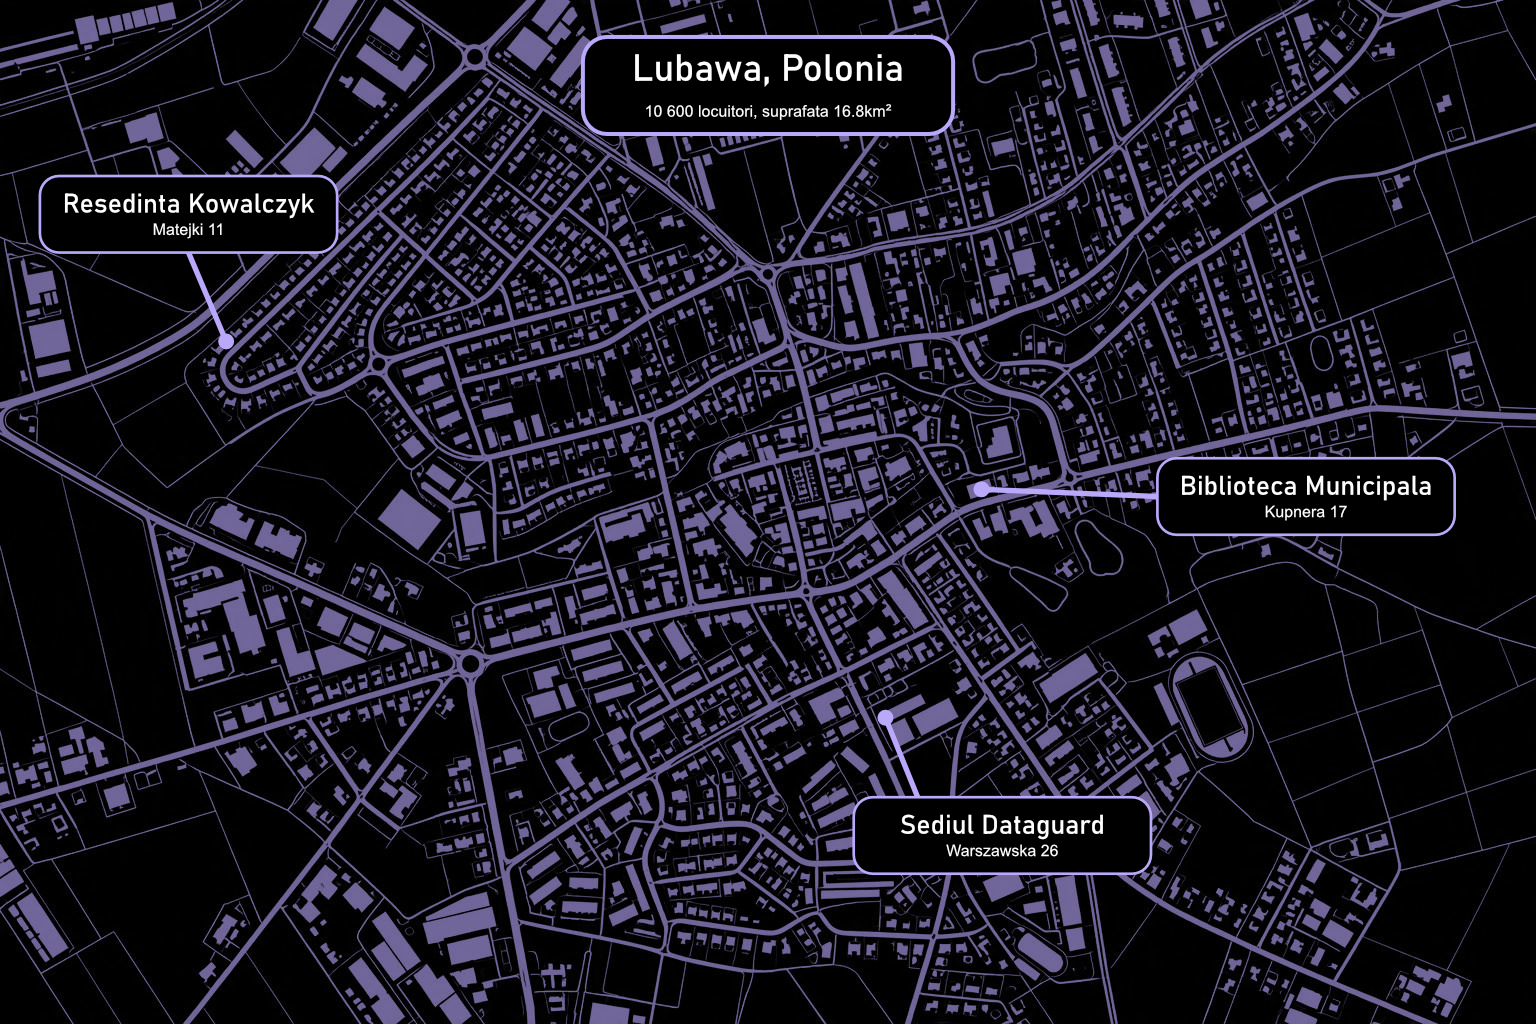
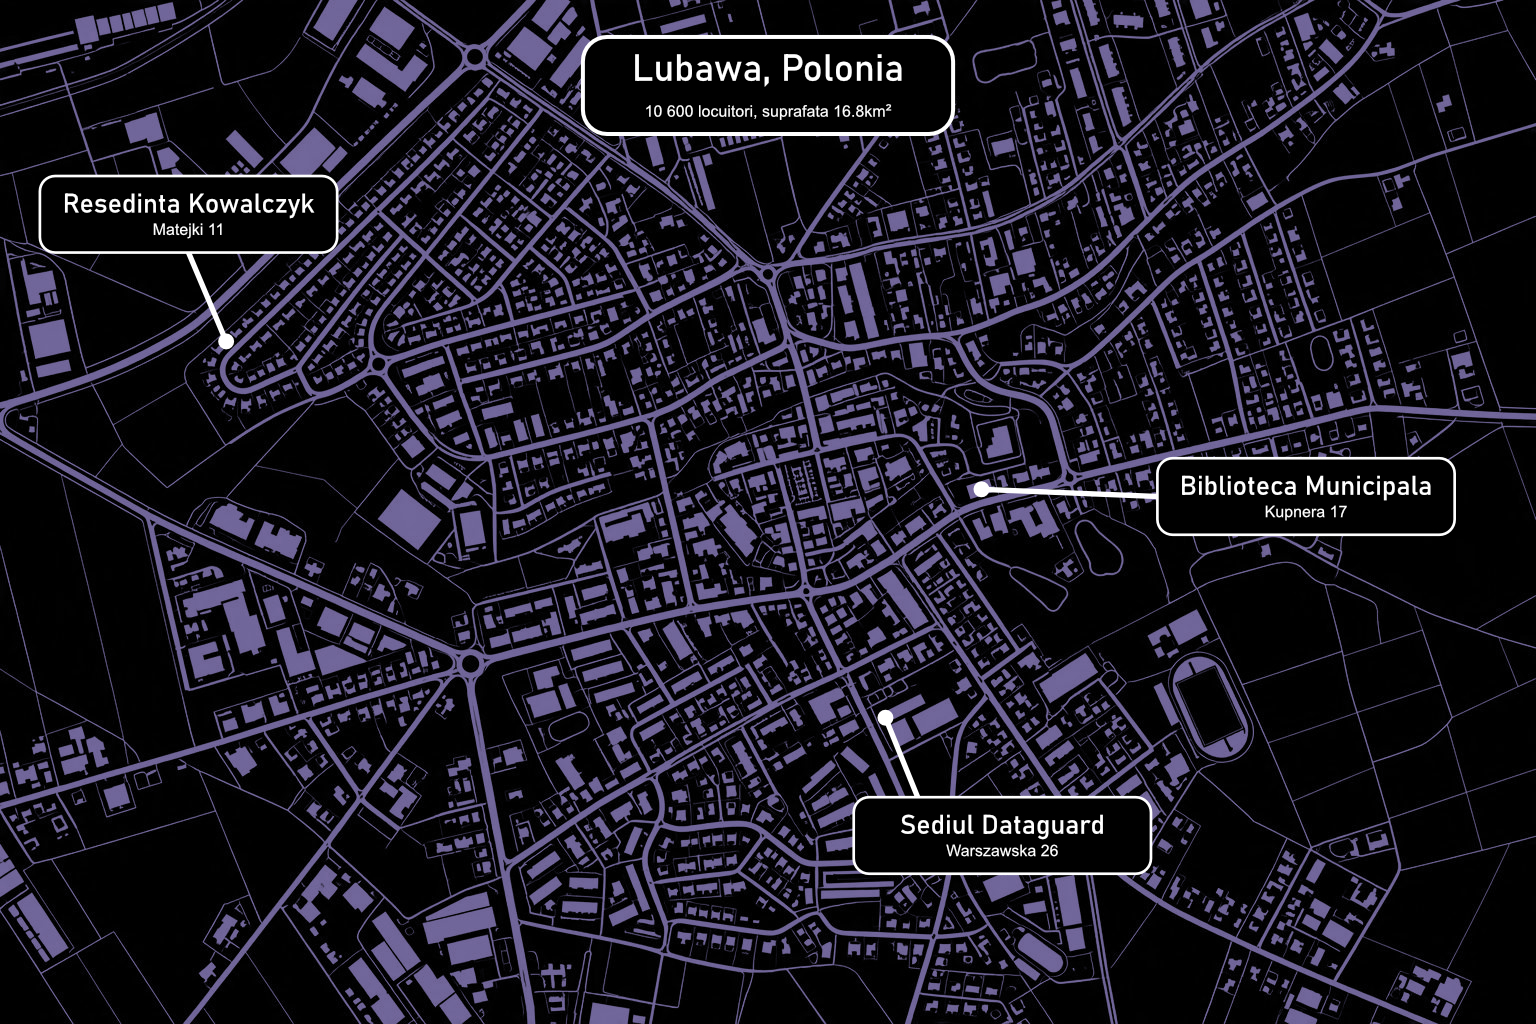
Finished chapter 1

diff --git a/content/stories/vlad/o-poveste-banala/01-jakub.md b/content/stories/vlad/o-poveste-banala/01-jakub.md
@@ -1,0 +1,90 @@
+---
+title: Jakub
+---
+~~~map {map="map0"}
+226,340
+883,718
+980,487
+~~~
+
+Salut! 
+
+Aceasta poveste... e una banala. Poate chiar plictisitoare, despre un individ banal, poate chiar plictisitor. Eu sunt respectivul individ! 
+
+Salut, numele meu este Jakub Kowalczyk si... nu prea stiu ce pot spune despre mine. Mi s-a reprosat ca sunt prea... nicicum, ca cerul lipsit de definitie, al unei toamne reci. Nici prea prea, nici foarte foarte. Chestia e ca, desi nu sunt de acord cu evaluarea jignitoare a altora, nici nu ii condamn ca ar interpreta gresit lucrurile.
+
+Treaba e ca mie imi place sa am stabilitate si un stil de viata linistit, previzibil, fara evenimente care sa ma puna intr-o situatie neplacuta.
+
+M-am nascut in Polonia, in anul 1983 la spitalul judetean Nowe Miasto Lubawskie aflat la jumatate de ora de orasul Lubawa, in care locuiesc cu mama mea. Tata a cumparat casa de pe strada Matejki, numarul 11, cativa ani inainte sa o cunoasca pe mama, iar cand aveam in jur de 10 ani, ea a devenit proprietara, conform testamentului.
+
+Am absolvit toate ciclurile de invatamant in Lubawa, cu rezultate... decente. Nu am luat premiu niciodata, dar am fost departe de corijenta. Am terminat facultatea de studii europene, dar nu pot spune ca mi-a placut subiectul. Inca din anii de studentie, am interactionat cu firma Dataguard, unde am ajuns mai tarziu sa lucrez full-time.
+
+Pozitia oficiala este cea de "evaluator de metadate" si concret, sunt responsabil cu verificatul clasificarilor diverselor iteme. Clientii se bazeaza pe noi ca le putem clasifica (nu este responsabilitatea mea), de exemplu, reviewuri ale cumparatorilor, sau fise de lucru, etc. intr-un mod eficient si de incredere (responsabilitatea mea).
+
+Pentru mine o zi normala incepe mereu la cinci dimineata, cand suna singura alarma setata - nu folosesc functia de Snooze. Fac un dus, aleg o tinuta potrivita pentru mediul de lucru - prefer culori pastelate mute, mai intunecate. Nu am o preferinta anume, insa recunosc ca imi place un numit verde masliniu - tinand cont ca nu gasesc usor haine in respectiva culoare, il ocolesc.
+
+Dupa un mic dejun cu mama, in jurul orei 6:30, plec din casa si schimb cateva autobuze pana pe strada Warszawska, numarul 26, la sediul Dataguard. Mereu reusesc sa ajung la 7:45, avand timp berechet sa imi fac o cafea (fara zahar, fara lapte) decafeinizata in sala de mese.
+
+Colegii mi-au reprosat ca ajung prea tarziu, insa ei esueaza (din nou) sa inteleaga eficienta procesului pe care am ajuns sa il perfectionez. Zece minute imi sunt suficiente sa imi spal cana, sa astept decalcifierea masinii de cafea si sa imi fac cafea, reusind sa ajung la 7:55 inapoi la birou. Ei raman si discuta despre una alta, mereu doar despre subiecte neinteresante...
+
+Colegii mi-au reprosat multe lucruri de cand lucrez aici, (in Septembrie implinesc 24 ani de lucru la Dataguard):
+
+-- Nu ai cautat un job mai bine platit!
+
+Venitul este relativ la cerinte si in consecinta venitul meu este foarte bun.
+
+-- In 20 de ani de cariera, nu ai avansat de la pozitia de evaluator!
+
+24 ani. Fac aceasta meserie foarte bine, de ce as risca?
+
+-- Preferi sa stai 2 ore in autobuz zilnic, in loc sa iti iei o masina!
+
+Detinerea unui automobil este un lucru foarte ineficient si scump, plus ca nu am carnet.
+
+-- Ai 40 de ani si inca stai cu parintii!
+
+43 ani. Doar cu mama. Economia nu imi permite sa strang banii pentru o alta locuinta; nu se justifica financiar sa intretinem doua proprietati
+
+-- Nu iti place muzica!
+
+Apreciez o coloana sonora bine aleasa, nu inteleg de ce mi-as distrage atentia ascultand-o in casti sau boxe, fara motiv.
+
+-- Nu practici niciun sport!
+
+Nu reprezinta o prioritate pentru mine
+
+-- Nu iti plac jocurile!
+
+Nu mai sunt copil; dispretuiesc orice mecanism de joc de noroc
+
+-- Ai zero hobbyuri!
+
+Am o camera foarte ordonata
+
+-- Nu esti nici macar casatorit - e cam tarziu sa mai faci copii
+
+Nu am intalnit o partenera suficient de interesanta pentru o relatie; nu se justifica efortul financiar venit cu casatoria si cresterea copiilor
+
+-- Nu urmaresti filme, seriale, teatru, opera, tv, internet, social media
+
+Nu sunt interesante
+
+-- O sa mori singur!
+
+Toti murim singuri
+
+Cum ziceam - esueaza sa imi inteleaga procesul.
+
+---
+
+Insa ziua de 2 Iulie nu a fost o zi ca oricare alta. Proiectul curent era cu Biblioteca Municipala - ne-au angajat sa revizuim sistemul de catalogare a cartilor din inventar. Dispretuiesc genul acesta de proiecte deoarece necesita deplasare la locatia clientului. Din fericire biblioteca se afla la doar cateva strazi departare de Dataguard, asa ca am mers pe jos pana acolo. 
+
+Dupa cateva ore de verificat sistemul de catalogare a cartilor (si descoperind deja peste 50 de greseli), am facut o pauza in sala de zi, unde aveau fierbator de apa. Spre deosebire de Dataguard, biblioteca nu oferea masina de cafea care sa ofere si cafea decafeinizata, asa ca am luat cu mine un borcan (si o lingurita).
+
+In timp ce fierbatorul pregatea apa, am observat un afis deasupra lui referitor la un club de carte/autori amatori, care se desfasura de 2-3 ori pe saptamana, in incinta bibliotecii. Tinand cont ca o vreme trebuia sa vin zilnic la biblioteca, am sunat la numarul de pe anunt si m-am inscris.
+
+Pe parcursul urmatoarelor luni, am participat religios la toate intalnirile clubului, in cadru carora se discuta despre carti citite, dar se lansau si provocari pentru cei care doreau sa scrie, mereu creatii scurte, la obiect.  
+
+As dori sa recunosc faptul ca exista ceva inedit in legatura cu mine. Am un "dar", cand se pune problema de scris. Nu ma pricep sa scriu bine, dar, ceea ce scriu, cumva, reuseste sa depaseasca granitele foii...
+
+Am raspuns la toate provocarile clubului, feedbackul mereu fiind oficial pozitiv, realist mediocru. Povestea lui Hiroshi, insa, a fost ultima mea creatie pentru club...
